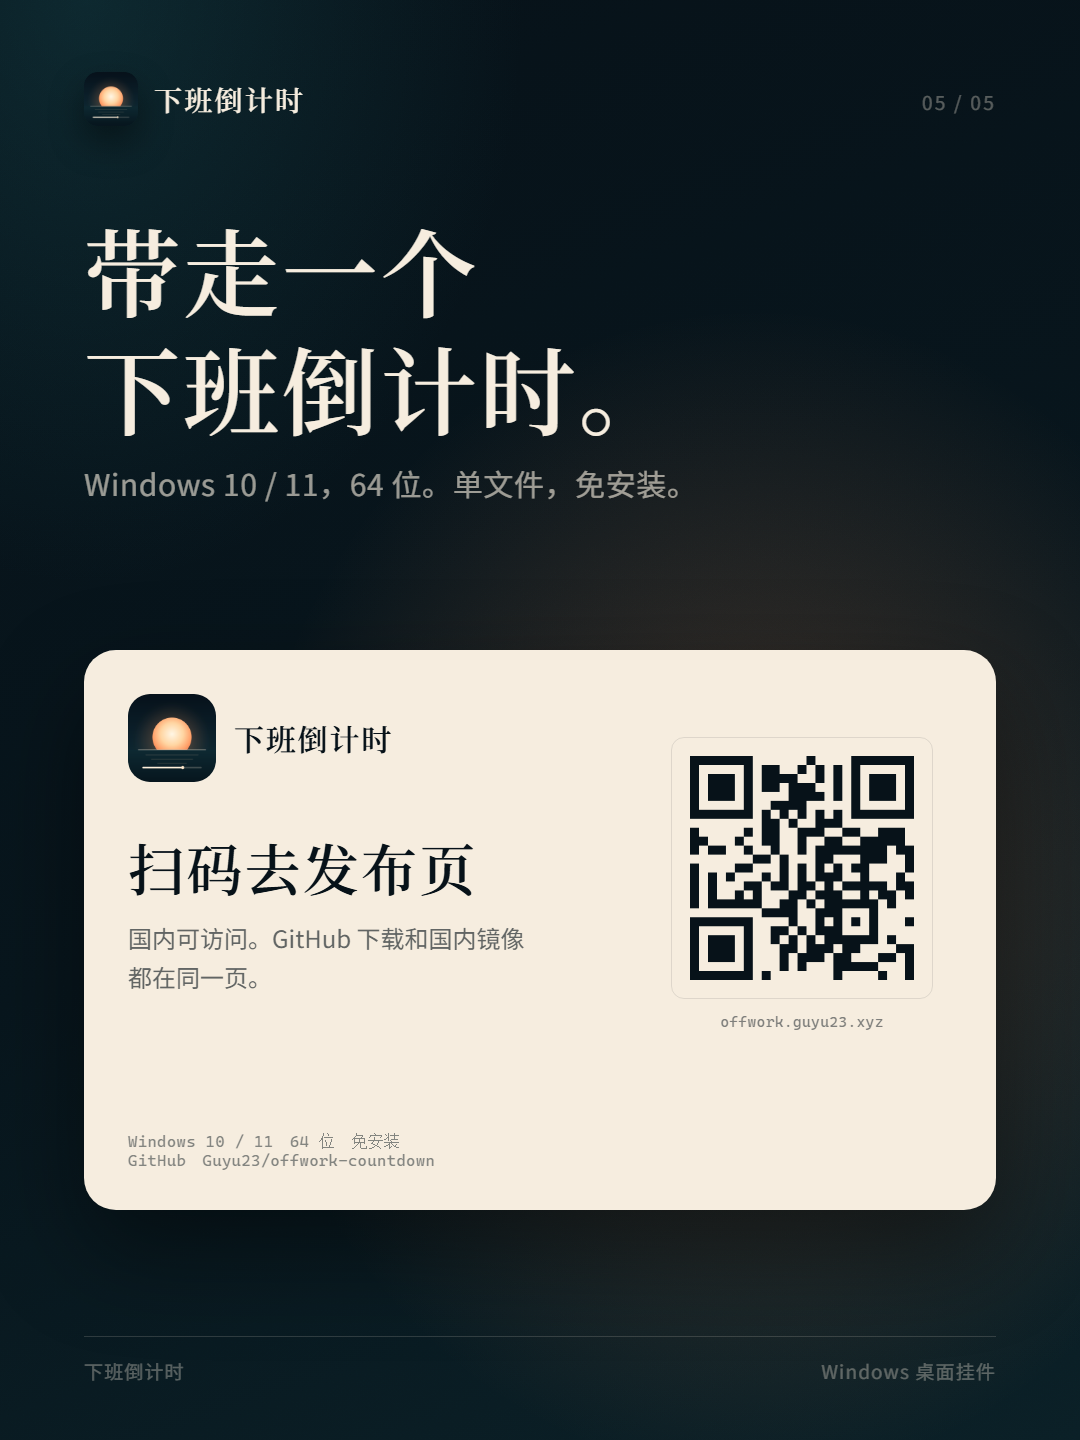
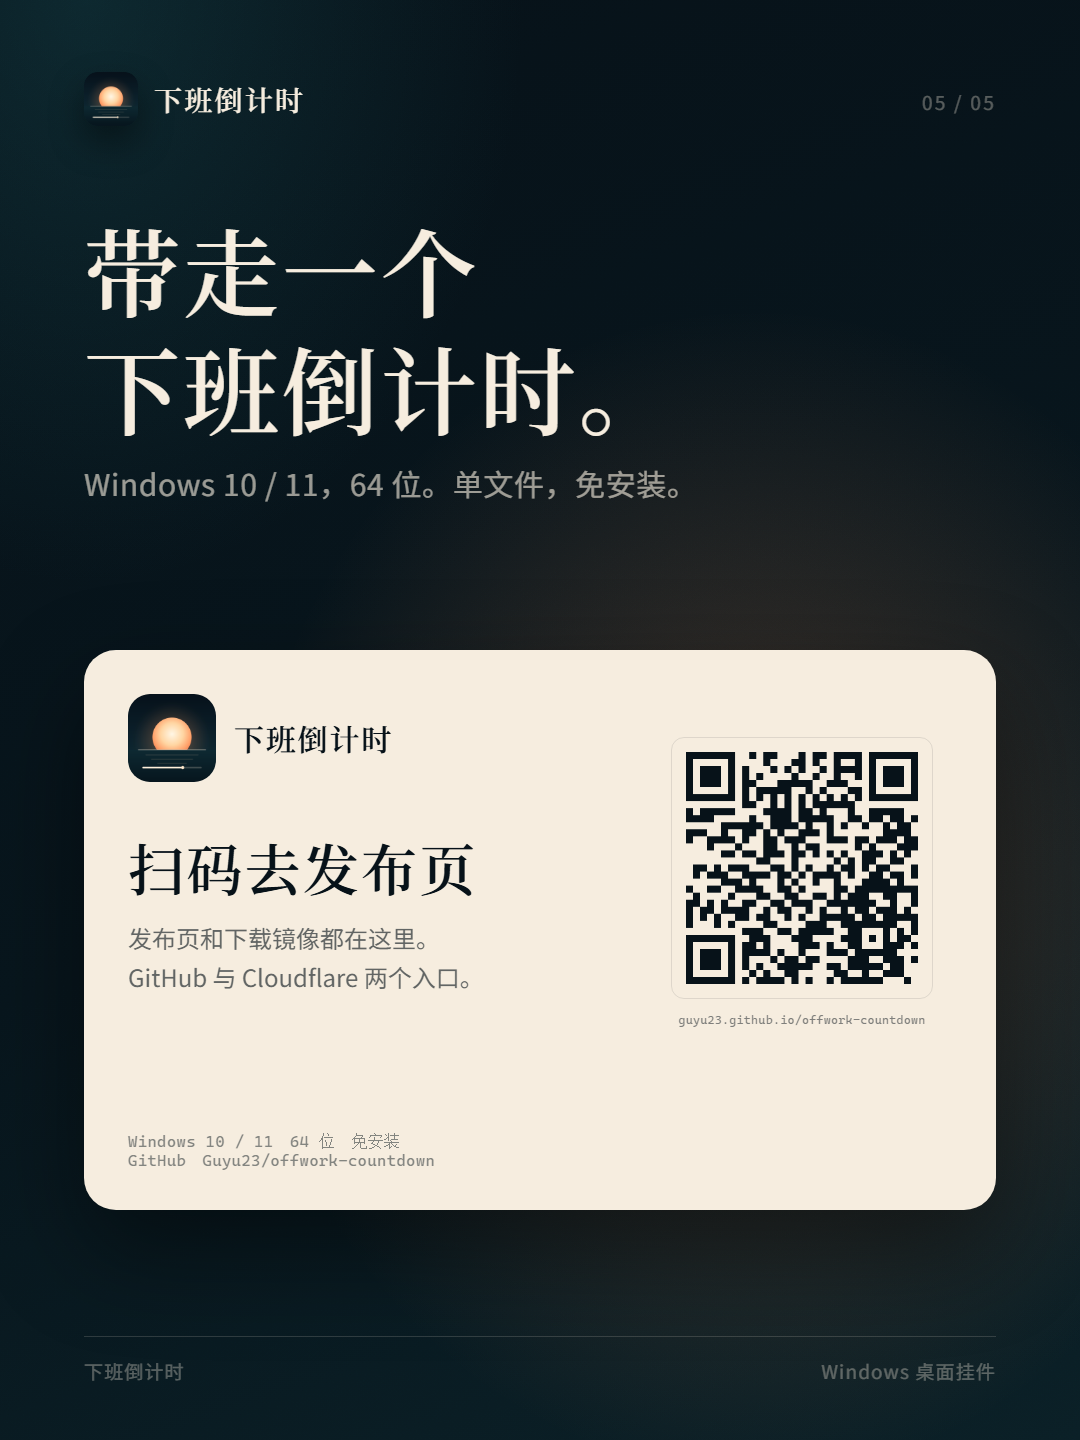
Point Xiaohongshu QR at the new release page

Changed region(s): [[0.6111, 0.5, 0.8556, 0.7188], [0.1222, 0.625, 0.4889, 0.6875]]

diff --git a/marketing/xiaohongshu/render/05.html b/marketing/xiaohongshu/render/05.html
@@ -10,8 +10,8 @@
   <div class="download-panel">
     <div class="top"><img src="../../../assets/offwork-icon.png" alt=""><span>下班倒计时</span></div>
     <h3>扫码去发布页</h3>
-    <p class="hint">国内可访问。GitHub 下载和国内镜像<br>都在同一页。</p>
-    <div class="qr-wrap"><img src="../qr.png" alt=""><p>offwork.guyu23.xyz</p></div>
+    <p class="hint">发布页和下载镜像都在这里。<br>GitHub 与 Cloudflare 两个入口。</p>
+    <div class="qr-wrap"><img src="../qr.png" alt=""><p>guyu23.github.io/offwork-countdown</p></div>
     <div class="small">Windows 10 / 11　64 位　免安装<br>GitHub　Guyu23/offwork-countdown</div>
   </div>
   <div class="footer"><span>下班倒计时</span><span>Windows 桌面挂件</span></div>

diff --git a/marketing/xiaohongshu/render/xhs.css b/marketing/xiaohongshu/render/xhs.css
@@ -286,7 +286,7 @@ html, body { margin: 0; width: 1080px; height: 1440px; overflow: hidden; backgro
 .qr-wrap p {
   margin: 10px 0 0;
   font-family: var(--mono);
-  font-size: 15px;
+  font-size: 12px;
   letter-spacing: 0.02em;
   color: rgba(7, 18, 25, 0.5);
 }

diff --git a/marketing/xiaohongshu/prompts/05-download.md b/marketing/xiaohongshu/prompts/05-download.md
@@ -7,10 +7,10 @@
 
 - 标题：带走一个下班倒计时。
 - 说明：Windows 10 / 11，64 位。单文件，免安装。
-- 面板：下班倒计时 / 扫码去发布页 / 国内可访问。GitHub 下载和国内镜像都在同一页。
+- 面板：下班倒计时 / 扫码去发布页 / 发布页和下载镜像都在这里。GitHub 与 Cloudflare 两个入口。
 - 页脚：Windows 10 / 11　64 位　免安装 / GitHub　Guyu23/offwork-countdown
 
 图片素材：`assets/offwork-icon.png`、`marketing/xiaohongshu/qr.png`。
-二维码目标：`https://offwork.guyu23.xyz`
+二维码目标：`https://guyu23.github.io/offwork-countdown/`
 禁止：虚假的“限时免费”、夸张的下载量、无法访问的短链。
 渲染：`render/05.html`。

diff --git a/marketing/xiaohongshu/copy.md b/marketing/xiaohongshu/copy.md
@@ -91,5 +91,6 @@
 - 封面用 `images/01.png`，其余按 02 到 05 的顺序上传。
 - 图片比例 3:4，1080 × 1440；小红书上传后不要裁切。
 - 正文里的空行保留，阅读节奏会更好。
-- 二维码指向 `https://offwork.guyu23.xyz`，国内可直接访问。
+- 二维码指向 `https://guyu23.github.io/offwork-countdown/`。
+- 发布页里的国内下载走 Cloudflare 的 `gh-proxy.com`，已验证能取到最新 Release。
 - 若发布前域名或下载地址变化，重新生成 `qr.png` 后再渲染第 5 张。

diff --git a/marketing/xiaohongshu/README.md b/marketing/xiaohongshu/README.md
@@ -12,7 +12,7 @@
 - `copy.md` 主推文案、备选文案、评论区回复。
 - `analysis.md` / `outline.md` 内容分析与图集结构。
 - `prompts/` 每张图的文字、素材和版式 brief。
-- `qr.png` 指向 `https://offwork.guyu23.xyz` 的二维码。
+- `qr.png` 指向 `https://guyu23.github.io/offwork-countdown/` 的二维码。
 - `render/` 可重新渲染的 HTML/CSS 源文件。
 
 ## 设计
